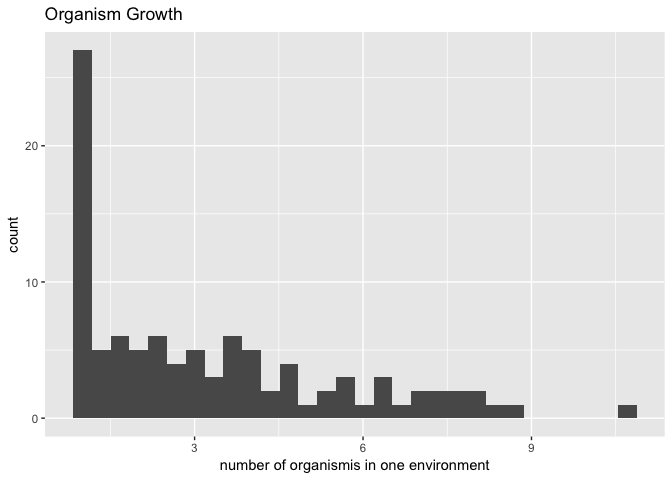
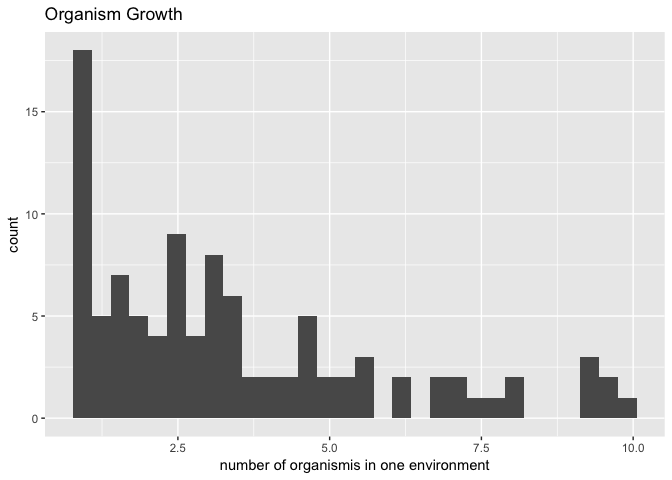
nicer graph

diff --git a/README.md b/README.md
@@ -148,12 +148,4 @@ Read the environment data and let the organism grow
 
 ### first Evaluation - a frequency distribution of organism counts
 
-``` r
-x3 <- lapply(OrgList, function(x){return(x$orgCount) })
-x4 <- unlist(x3)
-qplot(x4, geom="histogram", xlab = 'number of organismis in one environment', main = 'Organism Growth') 
-```
-
-    ## `stat_bin()` using `bins = 30`. Pick better value with `binwidth`.
-
-![](README_files/figure-markdown_github/unnamed-chunk-4-1.png)
+![](README_files/figure-markdown_github/org_growth_graph-1.png)
